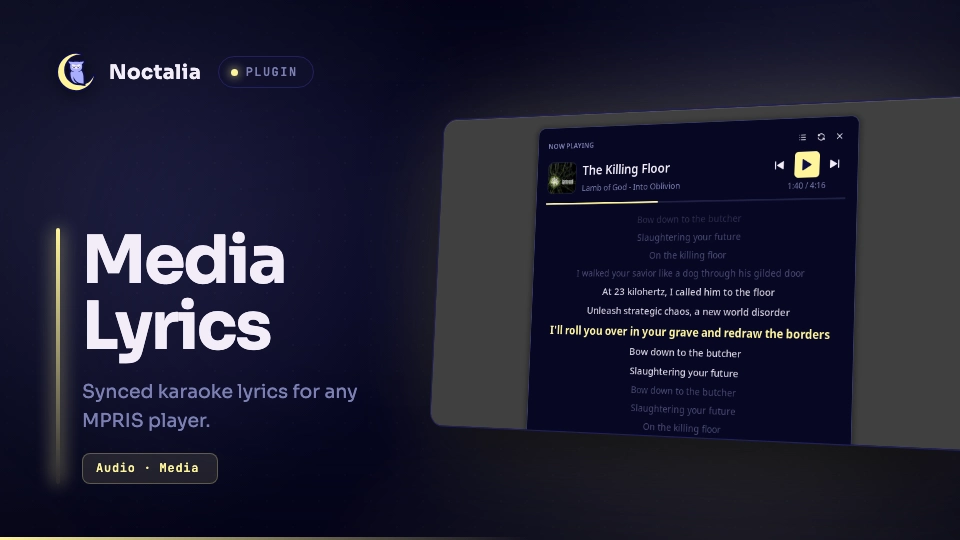
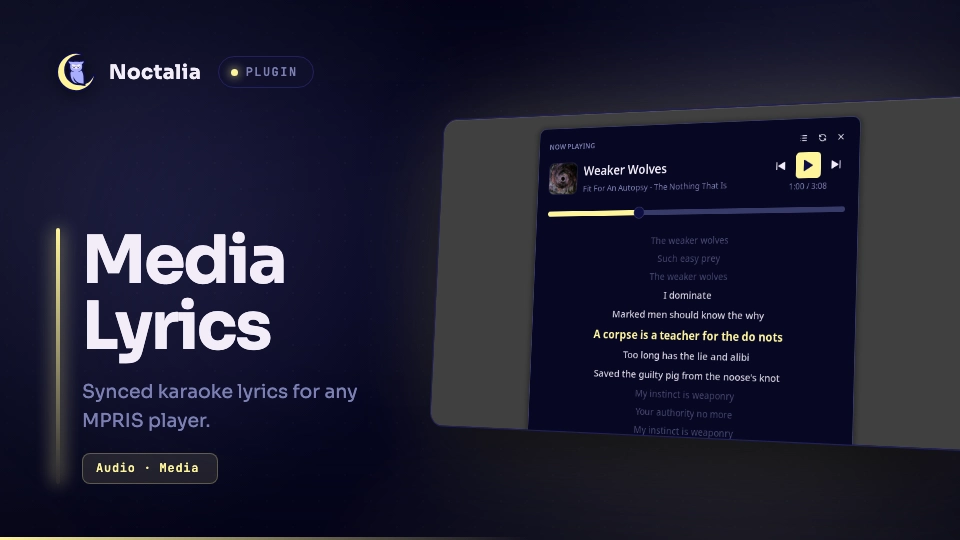
media-lyrics: update to v0.9.7 (seekable progress bar, pinned mini panel, layout fixes)

Changed region(s): [[0.5625, 0.2667, 0.875, 0.8296], [0.8438, 0.237, 0.875, 0.2667]]

diff --git a/media-lyrics/README.md b/media-lyrics/README.md
@@ -1,6 +1,6 @@
 # Media Lyrics
 
-A full-featured media player panel with **time-synced lyrics** for the Noctalia desktop shell. Karaoke-style lyric carousel (10/14/16 visible lines per size preset), album cover, transport controls, and a progress bar — all in one floating panel. **Pure Luau implementation**: no playerctl, no python daemons, no GTK overlays — runtime needs `busctl` (MPRIS) and `curl` (LRCLIB HTTPS + NetEase fallback).
+A full-featured media player panel with **time-synced lyrics** for the Noctalia desktop shell. Karaoke-style lyric carousel (9/12/16 visible lines per size preset), album cover, transport controls, and a progress bar — all in one floating panel. **Pure Luau implementation**: no playerctl, no python daemons, no GTK overlays — runtime needs `busctl` (MPRIS) and `curl` (LRCLIB HTTPS + NetEase fallback).
 
 | Light theme | Dark theme |
 | --- | --- |
@@ -83,7 +83,7 @@ The panel shows the active MPRIS player automatically; when nothing is playing i
 
 ## Features
 
-- **Karaoke lyric carousel** — 10/14/16 lines visible at once (compact/medium/large presets); the active line is bright, neighbours fade by distance (Clavis-style). Works with synced (LRC) and plain lyrics.
+- **Karaoke lyric carousel** — 9/12/16 lines visible at once (compact/medium/large presets); the active line is bright, neighbours fade by distance (Clavis-style). Works with synced (LRC) and plain lyrics.
 - **Centred karaoke** — the active line is pinned to the vertical centre of the lyrics area (symmetric window around the cursor or the playing line): the first line starts centred on load, the anchor holds the centre line through the track, and the last line returns to the centre at the end. A **3-2-1 countdown** fills the space this frees above the first line, shown only in the last three seconds before it starts. Compact/medium/large only — `panel-mini` is untouched.
 - **Clickable lyric lines** — click a synced line to seek the player to that timestamp.
 - **Manual lyric scroll** — Up/Down step a line (the host's chord validator accepts only basic key names; PageUp/PageDown/Home/End are rejected).
@@ -92,7 +92,7 @@ The panel shows the active MPRIS player automatically; when nothing is playing i
 - **NetEase Cloud Music fallback** — no-auth second source for LRCLIB misses (public endpoints, browser headers only): synced LRC wins, candidates ranked by title/artist + duration, metadata lines stripped; instrumental placeholders are filtered.
 - **Local `.lrc` files** — drop `Artist - Title.lrc` into the local lyrics folder; they take priority over the network.
 - **Marquee titles** — long track/artist names hold for 2 s, then scroll slowly instead of wrapping or clipping. Overlap-free (per-slice node recreation).
-- **Album cover + progress bar** — interpolated progress between polls, transport controls (prev / play-pause / next), shuffle and repeat state.
+- **Album cover + seekable progress bar** — click to jump, drag to scrub (a real `ui.slider`), interpolated between polls; transport controls (prev / play-pause / next), shuffle and repeat state.
 - **Live lyric line in the chip** — optional `show_lyric_line` widget setting: while synced lyrics are ready the chip shows `Title · current line` instead of the artist (steps with playback, marquee for long lines).
 - **Settings** — lyric timing offset in ms, on-disk cache, local lyrics folder. Translatable UI: strings go through Noctalia's i18n (`noctalia.tr`, English ships in the plugin; other locales via Noctalia Translate).
 
@@ -100,7 +100,7 @@ The panel shows the active MPRIS player automatically; when nothing is playing i
 
 - **Lean runtime.** No playerctl, python daemons, pip packages, or GTK overlays to install and maintain — just `busctl` and `curl`, present on virtually every Linux system. Enable → works.
 - **Player-agnostic.** Reads MPRIS directly via Noctalia's D-Bus aggregator — works with any player, not tied to a specific app.
-- **A real panel, not a 1–3 line bar widget.** Full-screen-height carousel with 10–16 visible lines (per size preset) keeps whole verses in view.
+- **A real panel, not a 1–3 line bar widget.** Full-screen-height carousel with 9–16 visible lines (per size preset) keeps whole verses in view.
 - **Overflow handled properly.** Long titles get a marquee, single-line sanitizer strips embedded newlines, integer button heights prevent glyph overlap.
 - **Offline-friendly.** LRCLIB responses are cached; local `.lrc` files work without network at all.
 

diff --git a/media-lyrics/CHANGELOG.md b/media-lyrics/CHANGELOG.md
@@ -4,6 +4,54 @@ All notable changes to **Media Lyrics** are documented here.
 The format follows [Keep a Changelog](https://keepachangelog.com/en/1.1.0/)
 and this project adheres to [Semantic Versioning](https://semver.org/spec/v2.0.0.html).
 
+## [0.9.7] — 2026-10-02
+
+A seekable progress bar, a pinned mini panel, and two display fixes: the seek
+no longer freezes after a rewind, and the lyric block no longer runs onto the
+bottom edge of the panel.
+
+### Added
+
+- **Seekable progress bar** — the progress line under the artwork is now a real
+  `ui.slider` (the same control the shell's own control-center media tab uses),
+  so you can click anywhere on it to jump and drag to scrub. It spans the full
+  inner width and reuses the existing `seekTo` transport, so lyric-line clicks
+  and the keyboard cursor keep working through the same path. Replaces the
+  display-only `ui.progress`: the host hands a plugin no click coordinates, and
+  `ui.progress` takes no input, so a slider is the only canonical way to make
+  the bar seekable. Thanks to @klntsky, whose seek-bar contribution pointed at
+  the same missing capability.
+- **Mini panel is now pinned** — `panel-mini` declares `persistent = true`, so
+  the always-on karaoke chip survives opening another panel (the control centre,
+  the launcher, …). Previously a normal panel was dismissed the moment any other
+  panel opened, which made the "pin to desktop" placement unusable.
+
+### Changed
+
+- **Visible lyric lines: 9 / 12 / 16** (compact / medium / large) — down from
+  10 / 14 / 16. The row budget is no longer a hardcoded count but is derived from
+  the measured lyrics area and the real row pitch (29 px), so it can never
+  overshoot the panel. Medium drops from 14 to 12 rows; the area simply does not
+  fit 14.
+
+### Fixed
+
+- **The progress bar froze after a rewind** — after seeking (by dragging the bar
+  or by clicking a lyric line) the bar could stay pinned to the target for the
+  rest of the track. The pending-target hold tested "the player has NOT arrived
+  yet?" first, so once playback ran *past* the target that condition became true
+  again and the bar kept drawing the target; the branch that was supposed to
+  release it also required the age timeout at the same instant, so it never ran.
+  The hold now clears as soon as the player reaches the target (and still times
+  out after 15 s if the seek is refused), and all three seek routes go through
+  one entry point.
+
+- **The last lyric line climbed onto the panel's bottom edge** — both the row
+  budget and the empty slot heights were computed from a stale `fs × 1.25`
+  estimate (27 px) while a rendered row measures 29 px, so a full block overshot
+  the lyrics area by ~50 px and clipped. Every row height now comes from one
+  measured pitch constant, and the countdown slot box uses it too.
+
 ## [0.9.6] — 2026-10-02
 
 A layout pass over the header, lyric wrapping and the mini panel, plus the
